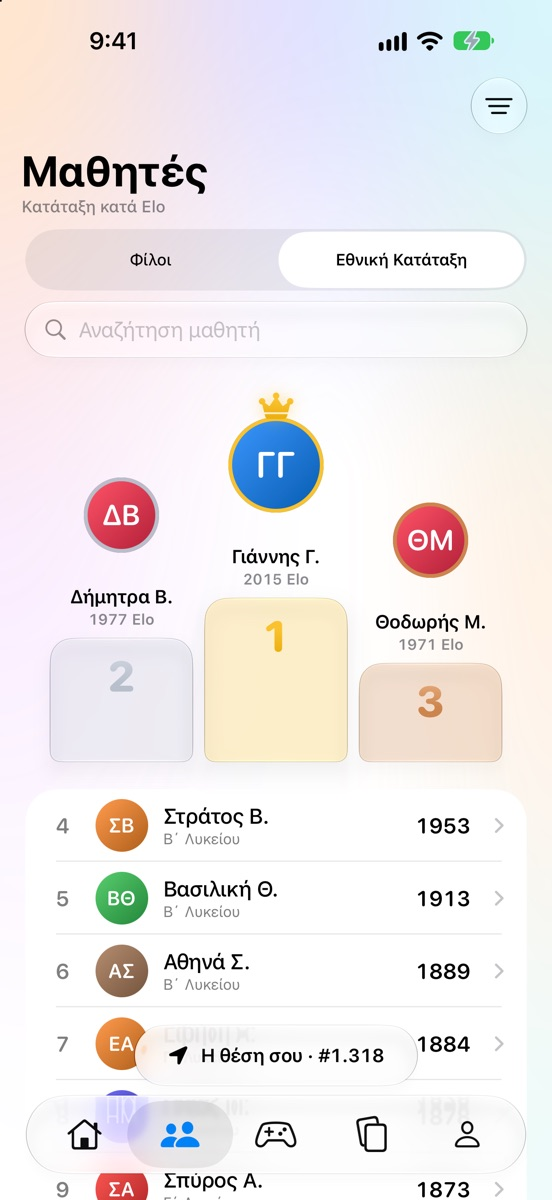
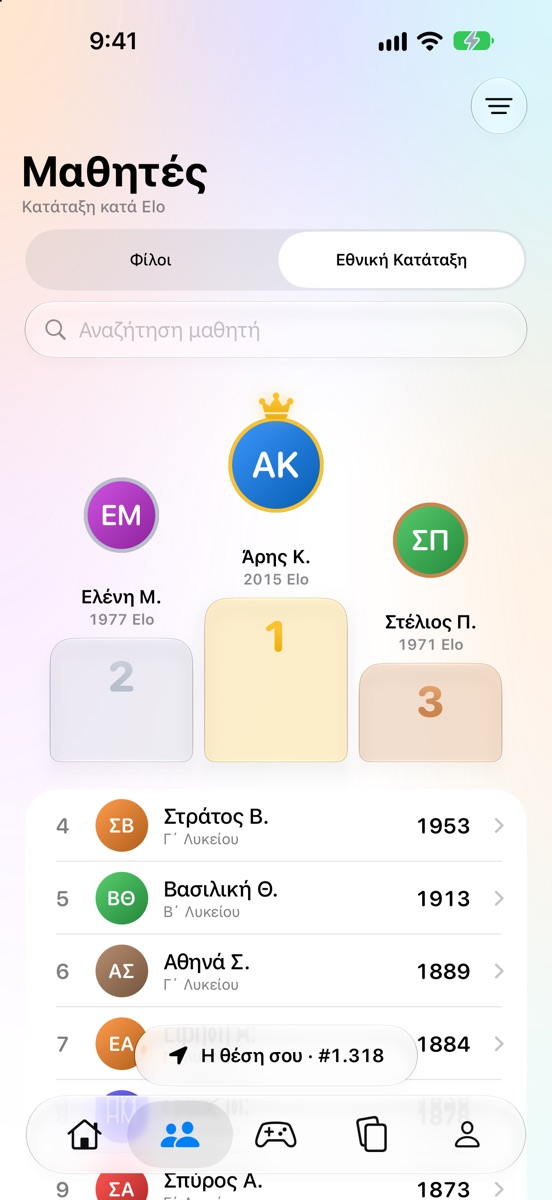
Νέα οθόνη Εθνικής Κατάταξης

diff --git a/index.html b/index.html
@@ -139,7 +139,7 @@
           <li>Στην Εθνική Κατάταξη βλέπεις όλους τους μαθητές ή μόνο όσους είναι στην τάξη σου.</li>
         </ul>
       </div>
-      <figure class="shot"><div class="phone"><img src="/assets/screens/ranking.jpg?v=ff69ae53" alt="Η Εθνική Κατάταξη με βάθρο για τους τρεις πρώτους μαθητές." width="552" height="1200" loading="lazy"></div></figure>
+      <figure class="shot"><div class="phone"><img src="/assets/screens/ranking.jpg?v=e7148986" alt="Η Εθνική Κατάταξη με βάθρο για τους τρεις πρώτους μαθητές." width="552" height="1200" loading="lazy"></div></figure>
     </article>
   </div>
 </section>
